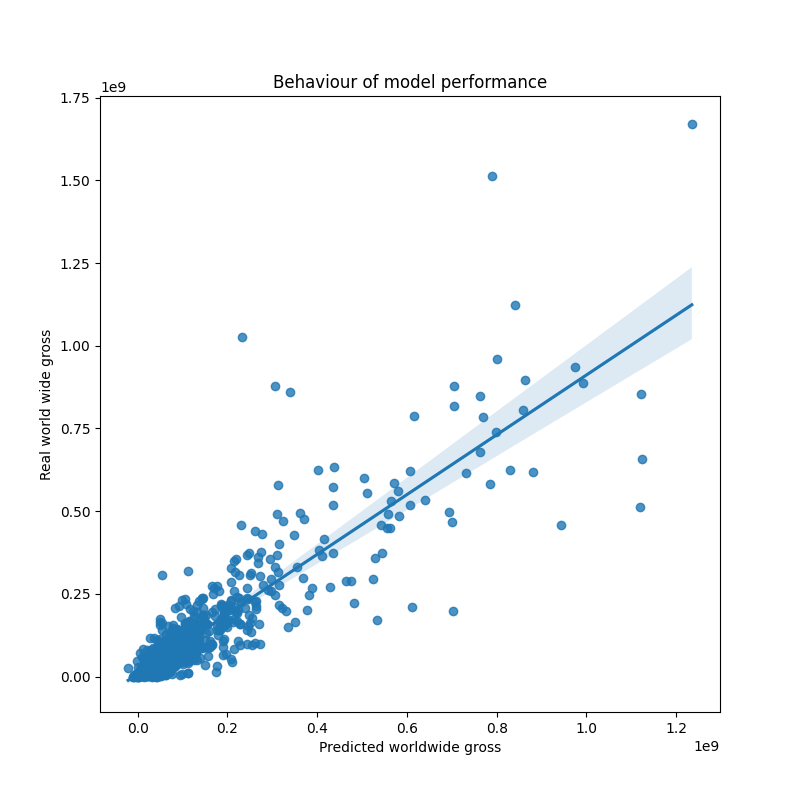
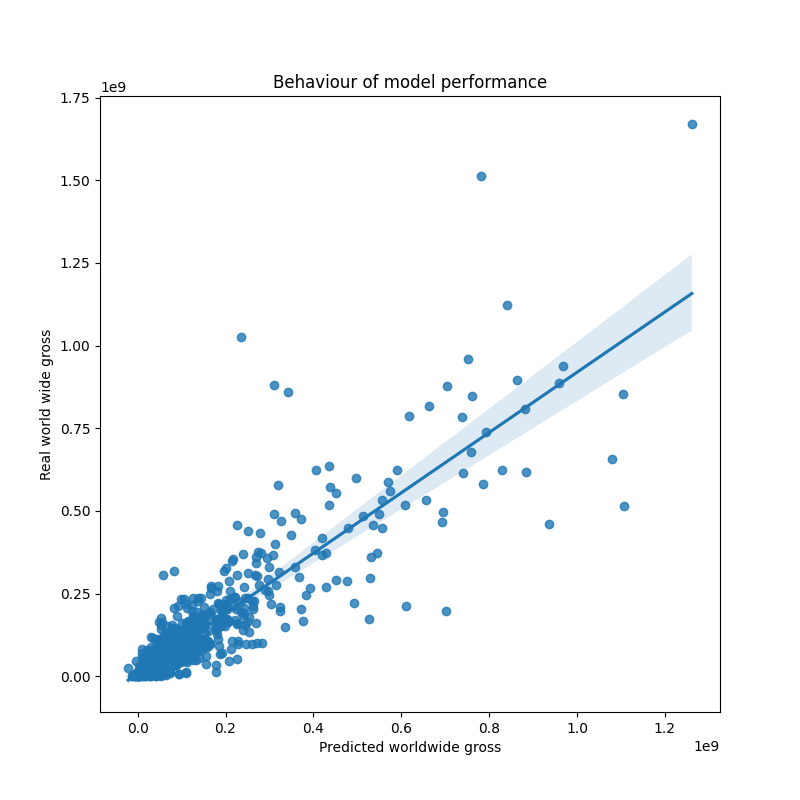
Update reports and Makefile

diff --git a/reports/report.md b/reports/report.md
@@ -3,12 +3,12 @@
 ## Model Pipeline Description
 
 * **imputer:** SimpleImputer()
-* **core_model:** GradientBoostingRegressor(n_estimators=300)
+* **core_model:** GradientBoostingRegressor(n_estimators=340)
 
 ## Metrics
 
 | **metric**       | **value** |
 | ---------------- | --------- |
-| Train score      | 0.97548   |
-| Test score       | 0.76222   |
-| Validation score | 0.74976   |
+| Train score      | 0.97895   |
+| Test score       | 0.76366   |
+| Validation score | 0.75260   |
